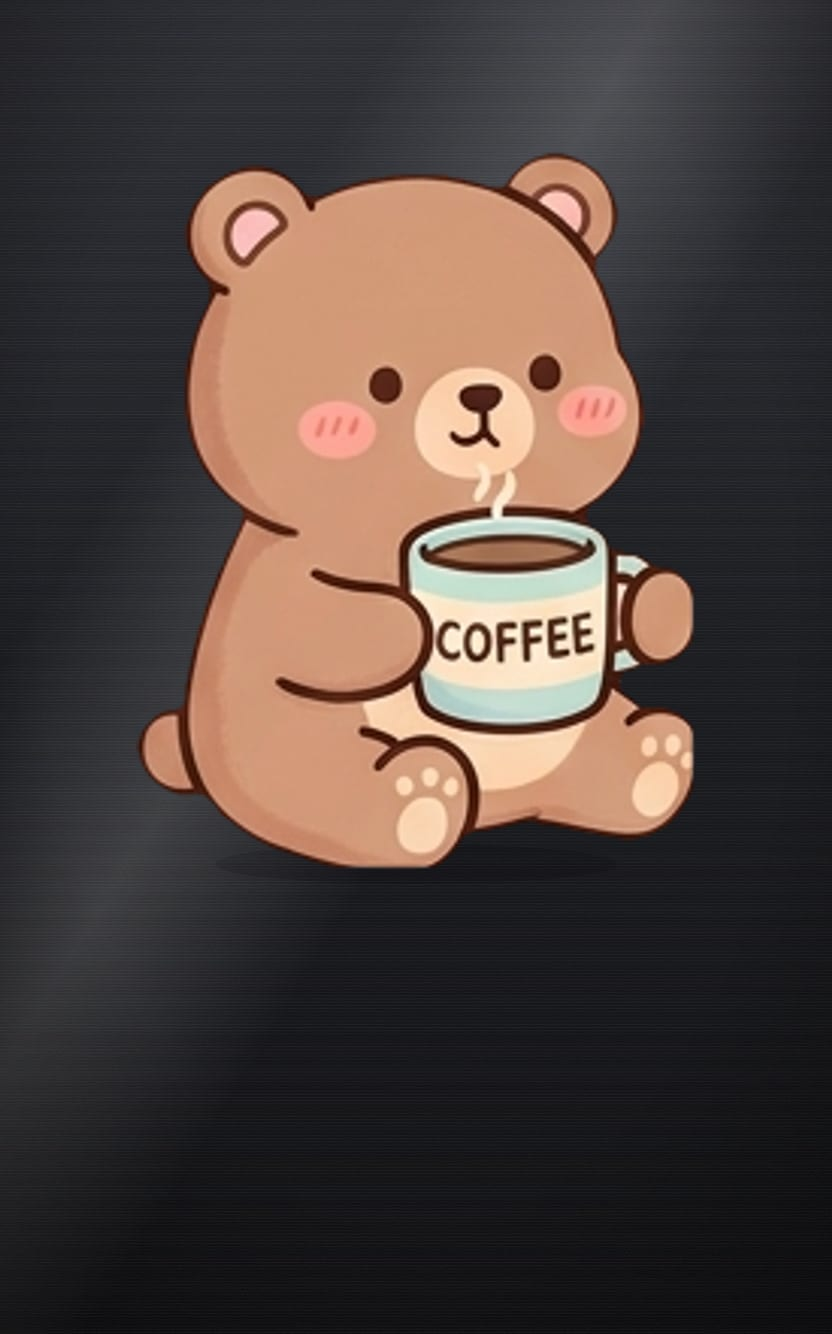
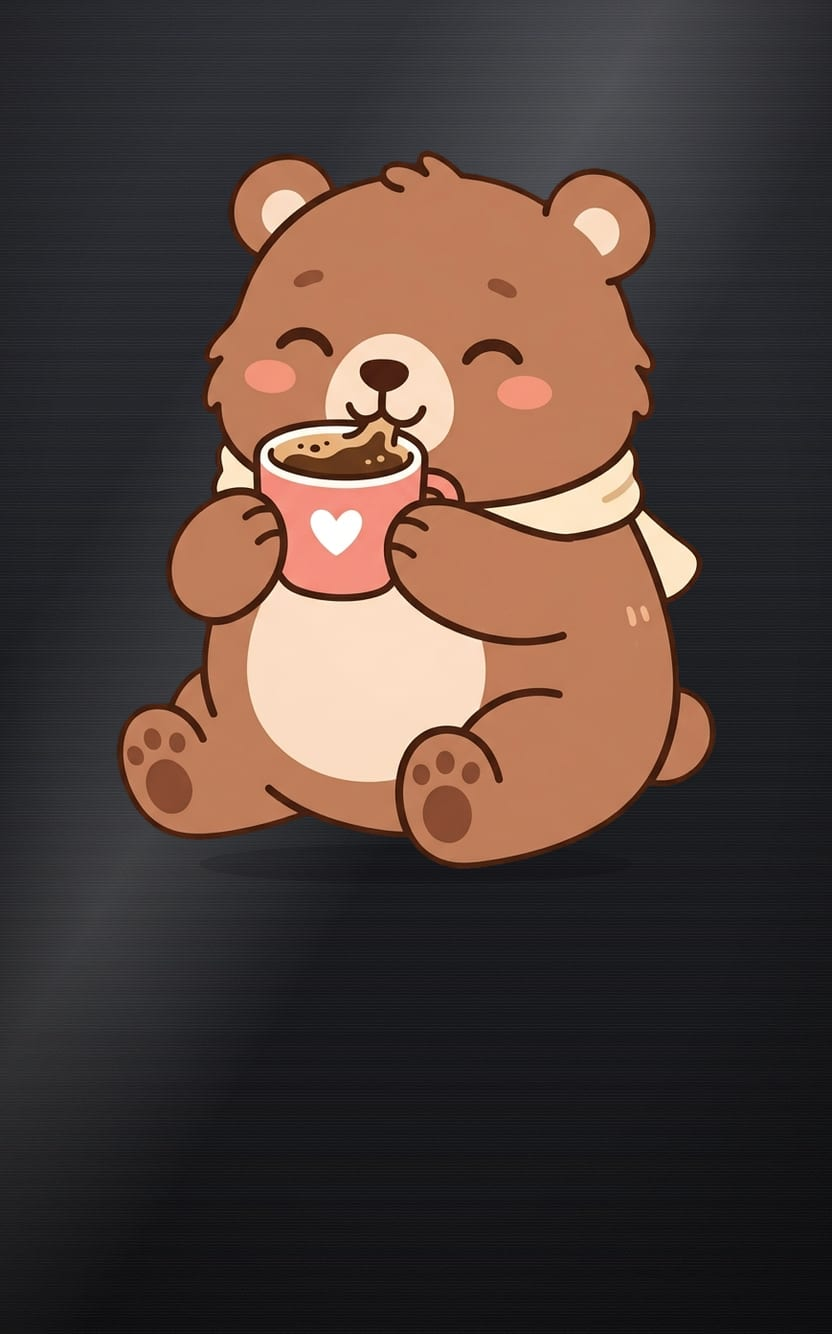
툼돌이 대표 모습: the big cocoa bear joins as bear-00 (front of the family); home's first showcase card uses it on ONYX

Changed region(s): [[0.125, 0.0922, 0.875, 0.6762]]

diff --git a/index.html b/index.html
@@ -431,7 +431,7 @@
       <button class="chip" data-f="color" aria-pressed="false" data-i18n="home.cat_color">단색</button>
     </div>
     <div class="grid" id="grid">
-      <a class="tile" data-cat="brand" href="/maker?friend=bear-01&bg=onyx&size=lg" style="background-image:url(/assets/combo_bear_onyx.jpg)"><span class="nm">정하린</span><i class="go">→</i></a>
+      <a class="tile" data-cat="brand" href="/maker?friend=bear-00&bg=onyx&size=lg" style="background-image:url(/assets/combo_bear_onyx.jpg)"><span class="nm">정하린</span><i class="go">→</i></a>
       <a class="tile fr-arch" data-cat="photo" href="/maker?sample=creator"><span class="ph" style="background-image:url(/assets/sample_profile_creator.jpg)"></span><span class="nm">김하늘</span><i class="go">→</i></a>
       <a class="tile" data-cat="brand" href="/maker?friend=bear-09&bg=aurora&size=lg" style="background-image:url(/assets/combo_bear_aurora.jpg)"><span class="nm">Noah Kim</span><i class="go">→</i></a>
       <a class="tile light" data-cat="brand" href="/maker?friend=bunny-01&bg=marble&size=lg" style="background-image:url(/assets/combo_bunny_marble.jpg)"><span class="nm">Alex Rivera</span><i class="go">→</i></a>
@@ -507,7 +507,7 @@
       window.h2T = function (k, f) { try { return window.i18n ? i18n.t(k) : f; } catch (e) { return f; } };
       var P = '<span class="ph" style="background-image:url(/assets/';
       var LOOKS = [
-        { n: '툼돌이', cls: '', st: 'background-image:url(/assets/combo_bear_onyx.jpg)', html: '<span class="nm">정하린</span>', href: '/maker?friend=bear-01&bg=onyx&size=lg' },
+        { n: '툼돌이', cls: '', st: 'background-image:url(/assets/combo_bear_onyx.jpg)', html: '<span class="nm">정하린</span>', href: '/maker?friend=bear-00&bg=onyx&size=lg' },
         { n: '아치', cls: 'fr-arch', st: '', html: P + 'sample_profile_creator.jpg)"></span><span class="nm">김하늘</span>', href: '/maker?sample=creator' },
         { n: '폴라로이드', cls: 'fr-polaroid', st: '', html: P + 'sample_profile_ceo.jpg)"></span><span class="nm">박도윤</span>', href: '/maker?sample=ceo' },
         { n: '필름', cls: 'fr-film', st: '', html: P + 'sample_profile_film.jpg)"></span><span class="nm">이서연</span>', href: '/maker?sample=film' },
@@ -576,7 +576,7 @@
       var $ = function (id) { return document.getElementById(id); };
       var P = '<span class="ph" style="background-image:url(/assets/';
       var SC = [
-        { k: '툼돌이 × ONYX', t: '블랙 메탈 위의 툼돌이', d: '캐릭터 크기와 플레이트를 골라 나만의 카드로', cls: '', st: 'background-image:url(/assets/combo_bear_onyx.jpg)', html: '<span class="nm">정하린</span>', href: '/maker?friend=bear-01&bg=onyx&size=lg', amb: '200,200,215' },
+        { k: '툼돌이 × ONYX', t: '블랙 메탈 위의 툼돌이', d: '캐릭터 크기와 플레이트를 골라 나만의 카드로', cls: '', st: 'background-image:url(/assets/combo_bear_onyx.jpg)', html: '<span class="nm">정하린</span>', href: '/maker?friend=bear-00&bg=onyx&size=lg', amb: '200,200,215' },
         { k: '아치', t: '사진이 아치 속에 서요', d: '부드러운 곡선 프레임에 이름을 담아요', cls: 'fr-arch', st: '', html: P + 'sample_profile_creator.jpg)"></span><span class="nm">김하늘</span>', href: '/maker?sample=creator', amb: '167,139,250' },
         { k: '툼돌이 × AURORA', t: '오로라 아래 킥보드 툼돌이', d: '같은 친구도 배경이 바뀌면 전혀 다른 카드', cls: '', st: 'background-image:url(/assets/combo_bear_aurora.jpg)', html: '<span class="nm">Noah Kim</span>', href: '/maker?friend=bear-09&bg=aurora&size=lg', amb: '110,190,255' },
         { k: '툼깡이 × MARBLE', t: '대리석 위의 툼깡이', d: '사진 없이도 캐릭터 하나로 완성', cls: 'light', st: 'background-image:url(/assets/combo_bunny_marble.jpg)', html: '<span class="nm">Alex Rivera</span>', href: '/maker?friend=bunny-01&bg=marble&size=lg', amb: '190,190,215' },

diff --git a/scripts/make-stickers.js b/scripts/make-stickers.js
@@ -12,7 +12,7 @@ fs.mkdirSync(OUT, { recursive: true });
 
 // 가족 이름: 곰 = 툼돌이, 고양이 = 툼냥이, 토끼 = 툼깡이 (깡총깡총)
 const FAMILIES = {
-  bear:  { file: 'ai_bear_stickers.jpg',  cols: 4, rows: 3, ko: '툼돌이', en: 'Toomdol the Bear', de: 'Toomdol der Bär', emoji: '🐻',
+  bear:  { file: 'ai_bear_stickers.jpg',  cols: 4, rows: 3, extra: [['big_bear_cropped.png', '코코아 툼돌이 (대표)', 'Cocoa Toomdol (main)', 'Kakao-Toomdol (Hauptfigur)']], ko: '툼돌이', en: 'Toomdol the Bear', de: 'Toomdol der Bär', emoji: '🐻',
            poses: [['커피 한 잔', 'Coffee', 'Kaffee'], ['일하는 중', 'Working', 'Bei der Arbeit'], ['꿀잠', 'Fast asleep', 'Tiefschlaf'], ['독서', 'Reading', 'Lesen'],
                    ['하트', 'Heart', 'Herz'], ['소파 휴식', 'Sofa break', 'Sofa-Pause'], ['팬케이크', 'Pancakes', 'Pfannkuchen'], ['화분 키우기', 'Plant care', 'Pflanzenpflege'],
                    ['킥보드', 'Scooter', 'Roller'], ['음악 감상', 'Music', 'Musik'], ['공부', 'Studying', 'Lernen'], ['낮잠', 'Nap', 'Nickerchen']] },
@@ -54,6 +54,13 @@ async function cutout(buf) {
   const manifest = { families: {}, stickers: [] };
   for (const [fam, f] of Object.entries(FAMILIES)) {
     manifest.families[fam] = { ko: f.ko, en: f.en, de: f.de, emoji: f.emoji };
+    // 시트 밖에 따로 있는 큰 그림 (대표 모습)은 00번으로 맨 앞에
+    for (const [i, [file, ko, en, de]] of (f.extra || []).entries()) {
+      const id = `${fam}-${String(i).padStart(2, '0')}`;
+      const cut = await cutout(await sharp(path.join(SRC, file)).flatten({ background: '#fff' }).png().toBuffer());
+      await sharp(cut).trim().resize(768, 768, { fit: 'inside', withoutEnlargement: true }).png({ compressionLevel: 9 }).toFile(path.join(OUT, id + '.png'));
+      manifest.stickers.push({ id, family: fam, ko, en, de }); console.log(id, ko);
+    }
     const cw = Math.floor(1024 / f.cols), ch = Math.floor(1024 / f.rows), k = 10;
     for (let i = 0; i < (f.count || f.cols * f.rows); i++) {
       const c = i % f.cols, r = Math.floor(i / f.cols);

diff --git a/scripts/make-combos.js b/scripts/make-combos.js
@@ -8,7 +8,7 @@ const W = 832, H = 1334;
 const SIZE = { xs: 240, sm: 400, md: 560, lg: 720, xl: 900 };
 
 const COMBOS = [
-  ['bear_onyx',      'bear-01',  'plate:onyx',      'lg'],
+  ['bear_onyx',      'bear-00',  'plate:onyx',      'lg'],
   ['bear_aurora',    'bear-09',  'plate:aurora',    'lg'],
   ['cat_champagne',  'cat-08',   'plate:champagne', 'md'],
   ['cat_forest',     'cat-12',   'plate:forest',    'md'],
